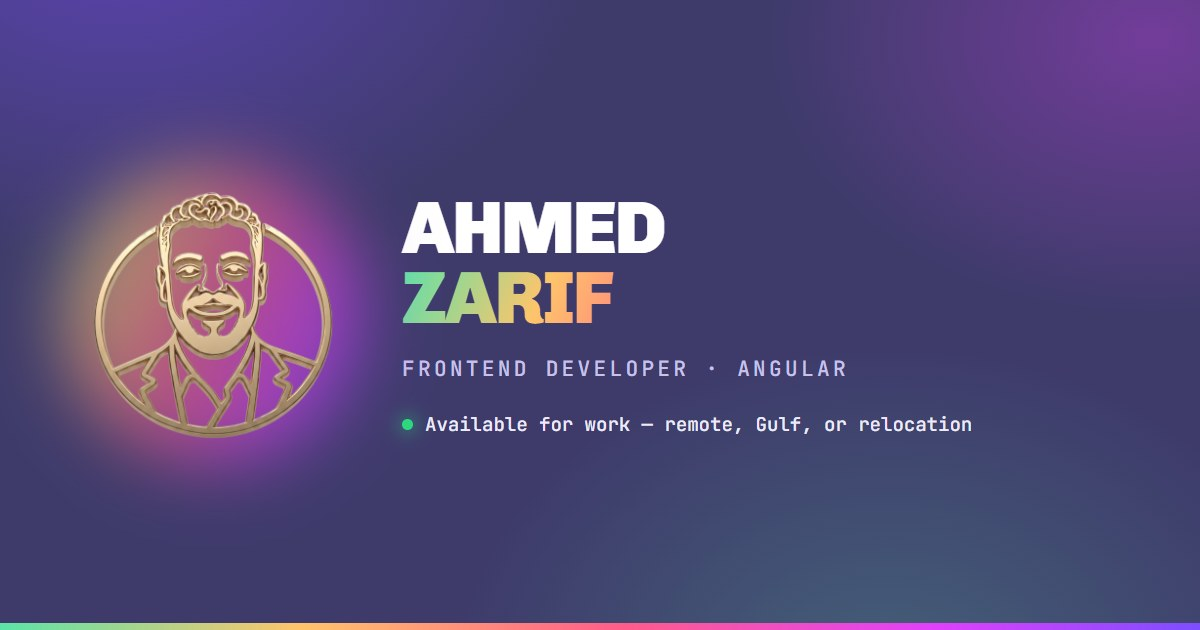
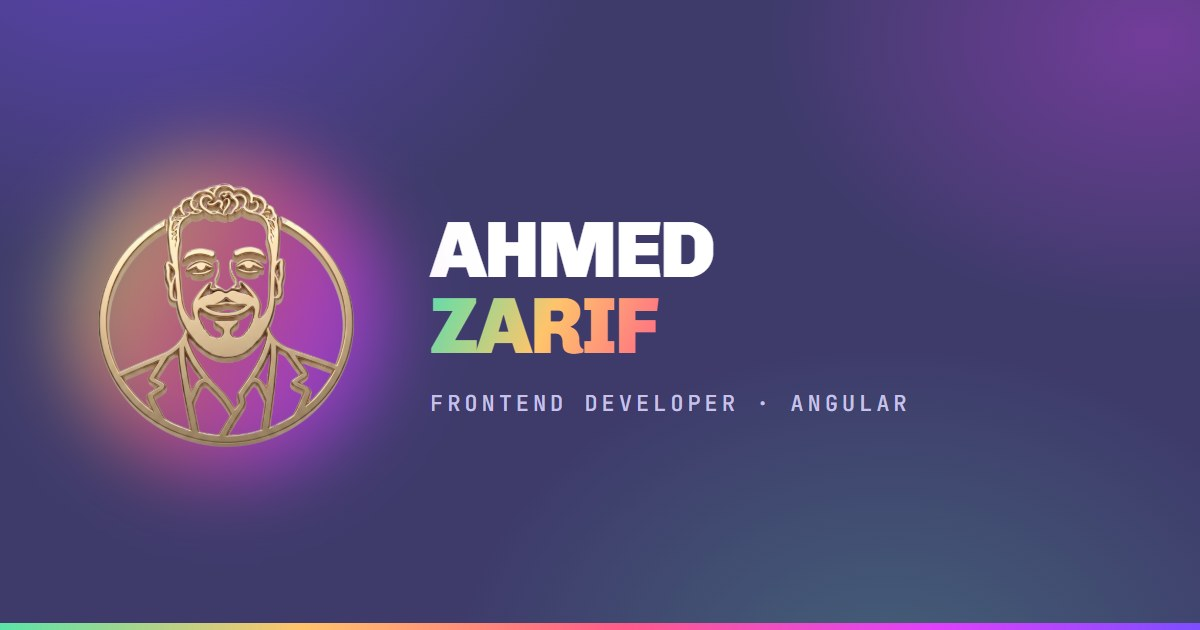
Drop the availability line from hero and preview card

Changed region(s): [[0.0617, 0.2714, 0.8325, 0.7238]]

diff --git a/index.html b/index.html
@@ -166,19 +166,6 @@ section{padding:clamp(3.5rem,7.5vw,6.5rem) 0}
   color:var(--on-dark);font-family:var(--mono);font-size:.72rem;font-weight:500;
   letter-spacing:.04em;padding:.4rem .85rem;
 }
-.status{
-  display:inline-flex;align-items:center;gap:.5rem;
-  font-size:.86rem;color:var(--on-dark-2);margin:1rem 0 0;
-}
-.status .dot{
-  width:.5rem;height:.5rem;border-radius:50%;background:var(--ok);flex:none;
-  box-shadow:0 0 0 0 rgba(43,217,124,.55);animation:pulse 2.4s var(--ease) infinite;
-}
-@keyframes pulse{
-  0%{box-shadow:0 0 0 0 rgba(43,217,124,.5)}
-  70%{box-shadow:0 0 0 8px rgba(43,217,124,0)}
-  100%{box-shadow:0 0 0 0 rgba(43,217,124,0)}
-}
 
 .btn{
   display:inline-block;border-radius:999px;
@@ -395,7 +382,7 @@ footer{padding:clamp(2.75rem,6vw,4rem) 0;border-top:1px solid var(--rule)}
 /* ================= MOTION ================= */
 .rise{opacity:0;transform:translateY(22px);transition:opacity .7s var(--ease),transform .7s var(--ease)}
 .rise.in{opacity:1;transform:none}
-.hero .hi,.hero .badge-wrap,.hero .blurb,.hero .acts,.hero .status,.portrait{
+.hero .hi,.hero .badge-wrap,.hero .blurb,.hero .acts,.portrait{
   opacity:0;transform:translateY(24px);
   animation:enter .85s var(--ease) forwards;
 }
@@ -406,7 +393,6 @@ footer{padding:clamp(2.75rem,6vw,4rem) 0;border-top:1px solid var(--rule)}
 .hero .badge-wrap{animation-delay:.38s}
 .hero .blurb{animation-delay:.46s}
 .hero .acts{animation-delay:.54s}
-.hero .status{animation-delay:.62s}
 .portrait{animation-delay:.32s}
 @keyframes enter{to{opacity:1;transform:none}}
 @keyframes lift{to{transform:none}}
@@ -415,7 +401,7 @@ footer{padding:clamp(2.75rem,6vw,4rem) 0;border-top:1px solid var(--rule)}
   html{scroll-behavior:auto}
   *,*::before,*::after{animation-duration:.001ms!important;animation-iteration-count:1!important;transition-duration:.001ms!important}
   .rise{opacity:1;transform:none}
-  .hero .hi,.hero .badge-wrap,.hero .blurb,.hero .acts,.hero .status,.portrait,.hero h1 .l > span{opacity:1;transform:none}
+  .hero .hi,.hero .badge-wrap,.hero .blurb,.hero .acts,.portrait,.hero h1 .l > span{opacity:1;transform:none}
 }
 </style>
 
@@ -453,7 +439,6 @@ footer{padding:clamp(2.75rem,6vw,4rem) 0;border-top:1px solid var(--rule)}
         <a class="btn fill" href="#work">View My Work</a>
         <a class="btn" href="mailto:ahmedzarif724@gmail.com">Get In Touch</a>
       </div>
-      <p class="status"><span class="dot"></span>Available for work &mdash; remote, Gulf, or relocation</p>
     </div>
 
     <div class="portrait">
